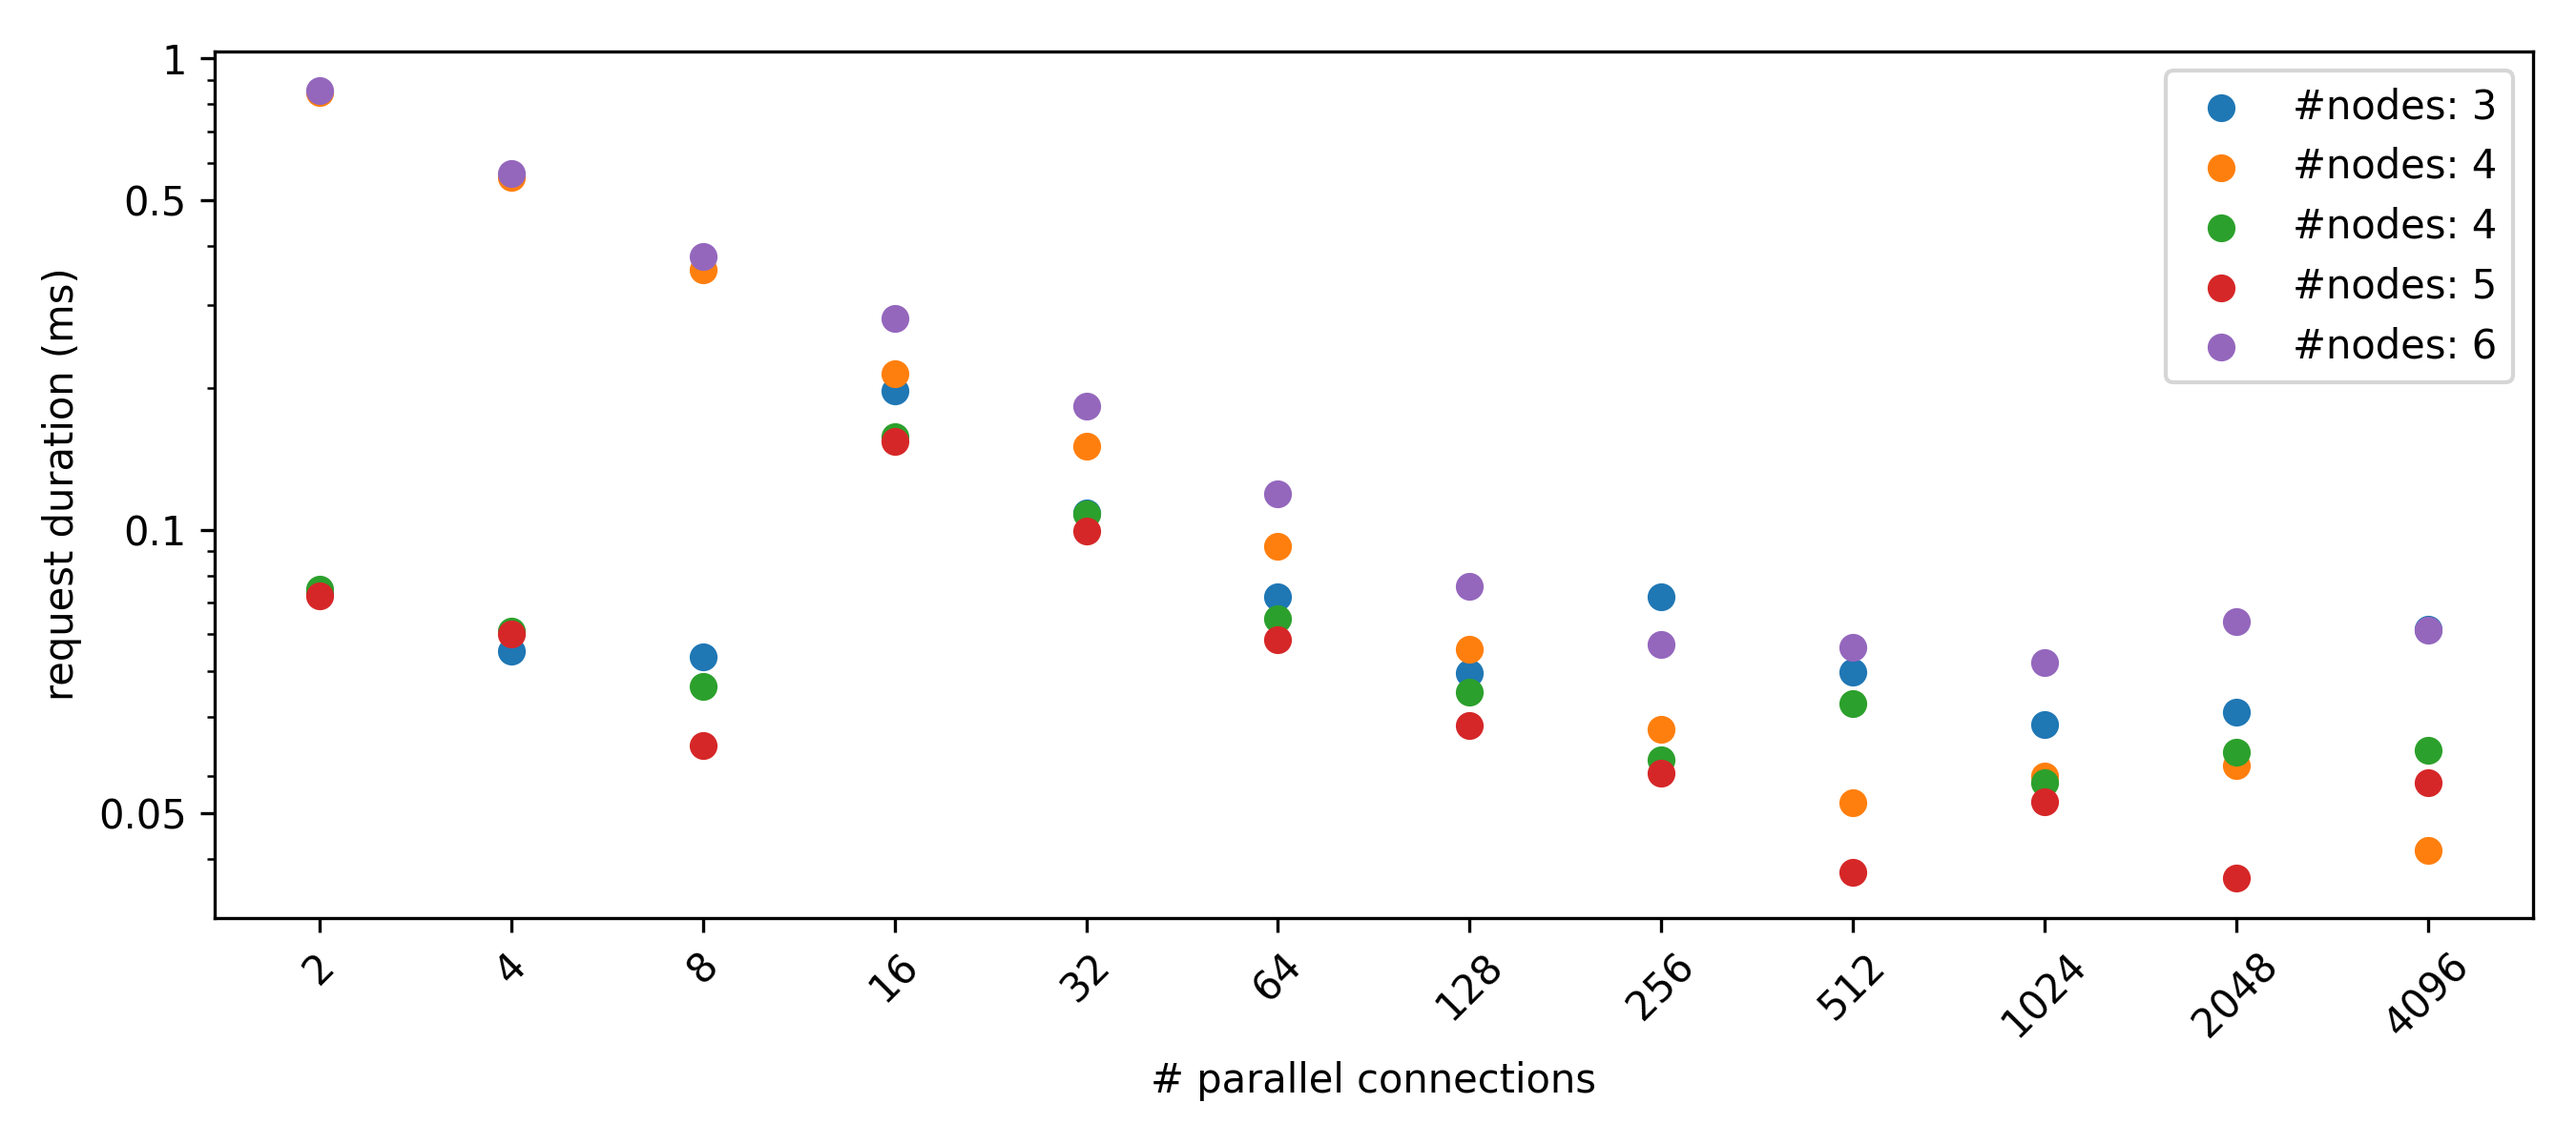
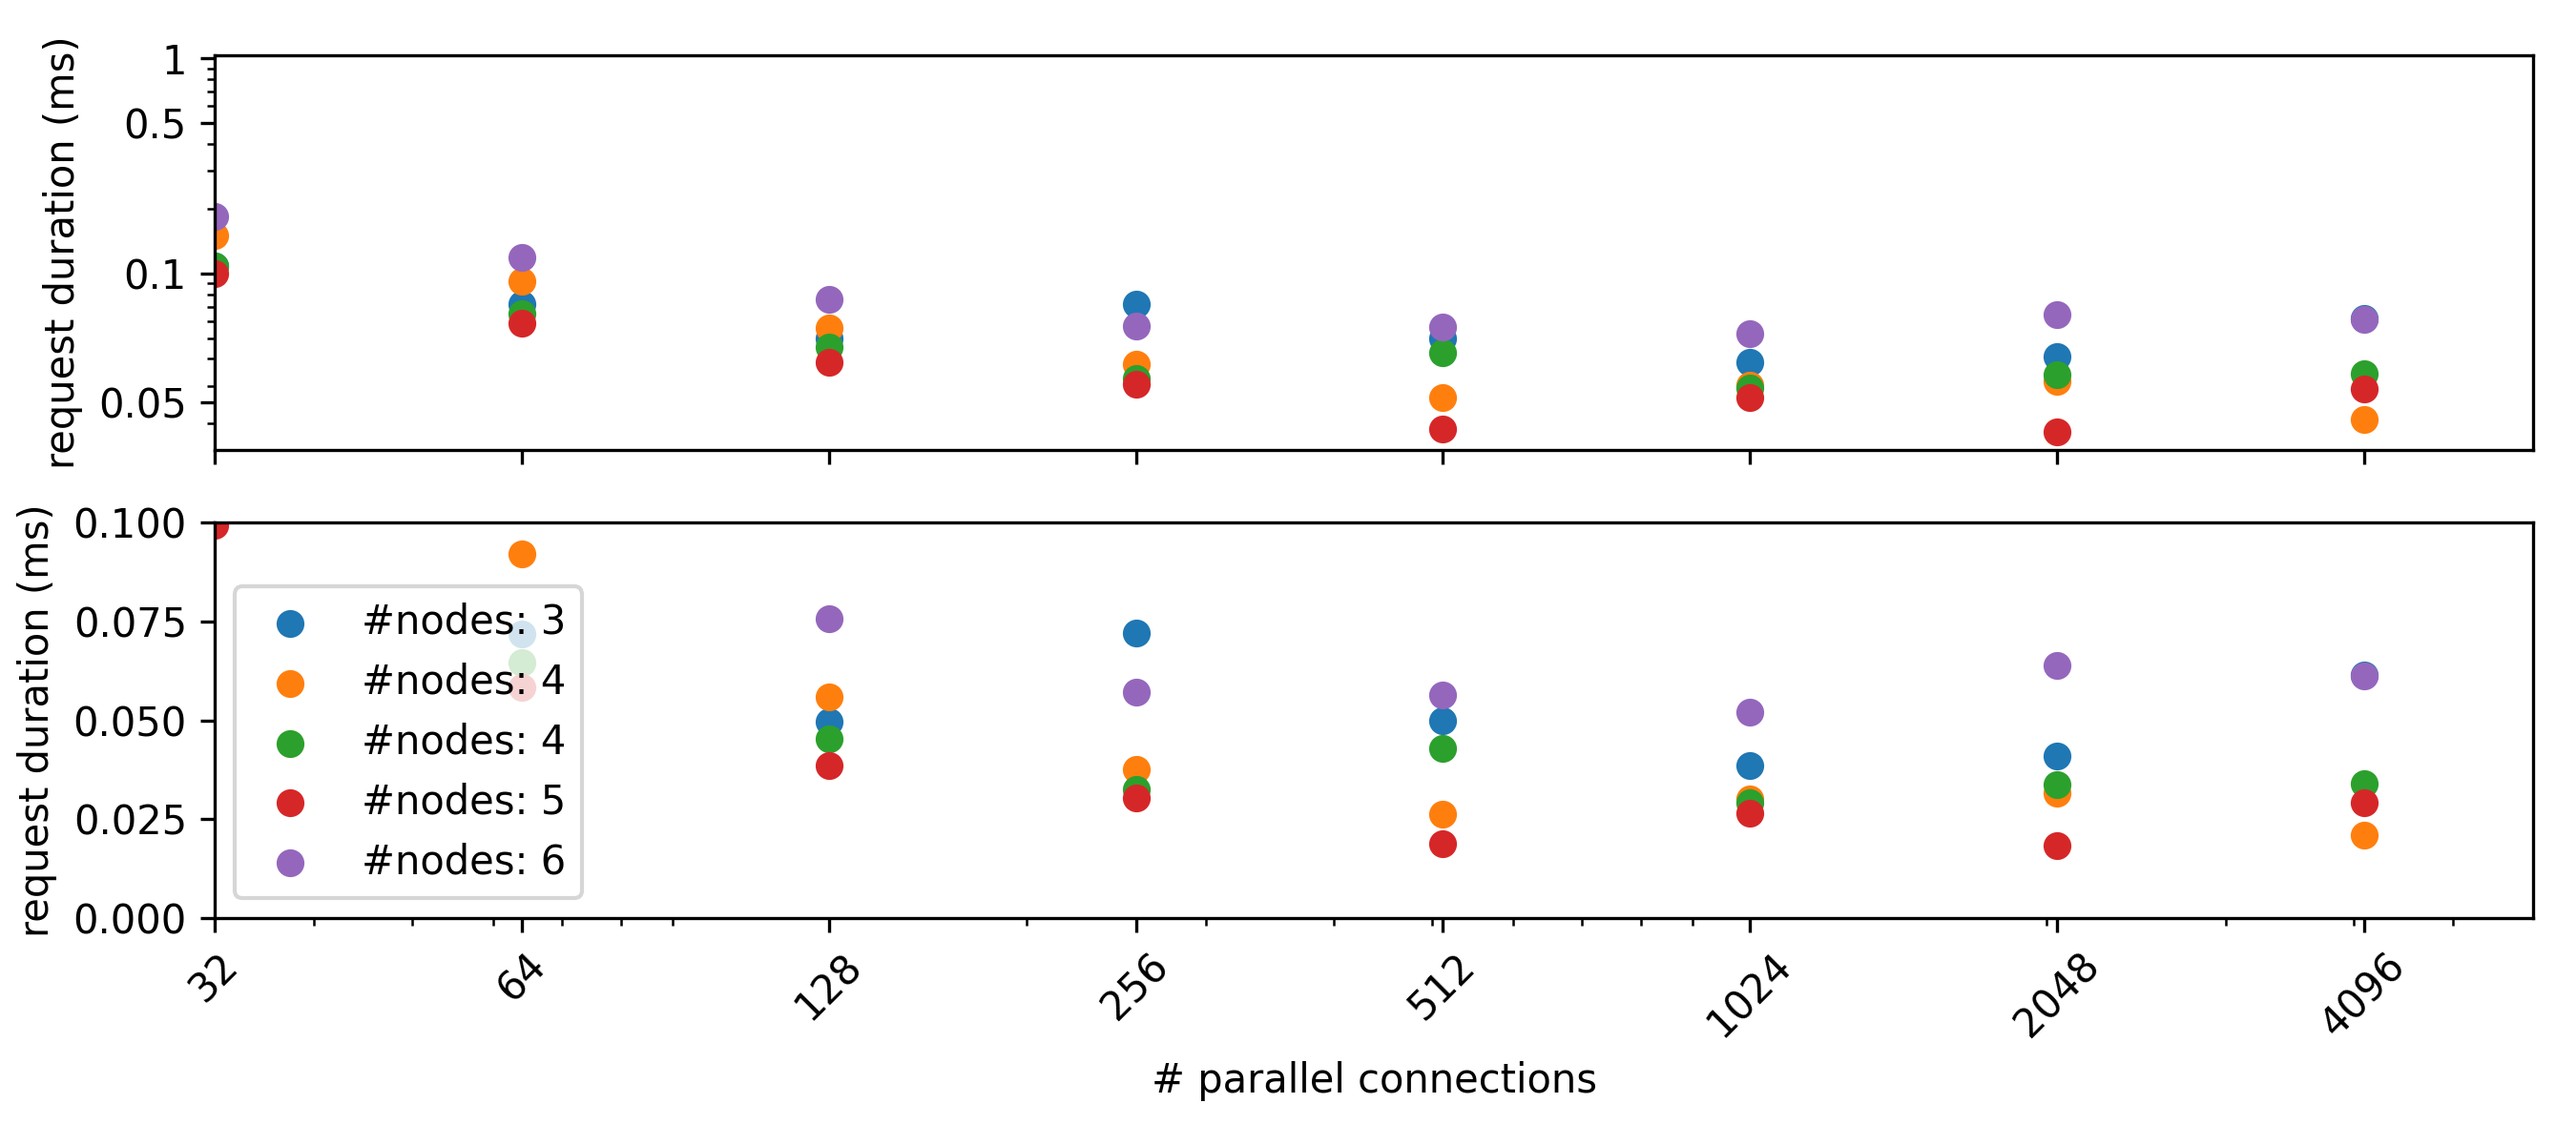
report draft done

diff --git a/report/content/conclusion.tex b/report/content/conclusion.tex
@@ -1,0 +1,21 @@
+The filesystem is consistent and stable under the lightests write and high read loads. Since I did not test other filesystems under the same workload I can not conclude weather the read performance is good. 
+
+In \cref{fig:hbt} we see a write load throws off the heartbeat timing of the writeserver resulting in readservers starting elections. The writeserver does not convert to a readserver\footnote{follower in \textit{Raft} terms} which is an implementation error. The readservers, having elected a new leader, no longer awknowledge the writeservers changes which it handles by crashing. This brings the cluster to a consistent state but errors the client connection which stopped the test. 
+There are two underlying problems here:
+
+\begin{enumerate}
+	\item A load of $5$ requests per second should not throw off heartbeat timing. An increase in heartbeat timeout did not solve the problem pointing to a problem in my consistancy model. It might have to do with the way heartbeat messages are canceld and replaced by publish change messages (see \cref{fig:mkdir} \textit{'cancel next heartbeat'}).
+	\item The writeserver should put up some \textit{backpressure} when the load becomes to high. It should stop handling new client requests instead of missing heartbeats.
+\end{enumerate}
+
+I also ran into a fundamental issue with the FS. Only a single change can be published to the readservers at the time. If multiple changes are send concurrently the readserver will eventually recieve some out of order and conclude it is outdated and should go down. 
+
+I can conclude the system, though consistant, is highly unstable during writes. The current implementation is faulty and there is a fundamental problem using raft that limits performance. It seems that read performance scales liniarly with cluster size. 
+
+\subsection{Future work}
+I think the fundamental issue can be solved with a slight change to \textit{Raft}. In \textit{Raft} a message is rejecting if the previous log index (\textit{prevLogIndex}) of the message is not found in the recievers log. I propose to introduce a pending state in which a message can be partially accepted for some duration. If the previous log index is not found a message wil not (yet) be accepted but be put into a pending state until a message with the pervious log index is accepted. The message is only awknowledged to the master if one with the missing previous log index is accepted. This should be worked out on paper then implemented.
+
+Further work should add a form of backpressure and change the task schedualling such that heartbeats will be send on time even under the highest possible load. As we use cooperative mutitasking this shoud be possible.
+To quantiy performance a I need to compare the system to existing solutions such as HDFS. For this a (minimal) data plane needs to be added and a real world workload found. Then both systems can be benchmarked on the same cluster.
+Currently a readserver that is outdated asks the writeserver for the complete directory. With a large directory and a high amount of changes this can result in an endless loop as the readserver is outdated by the time the writeserver has send the directory. This can be fixed with the log entry part of \textit{Raft} or another system for incremental updates.
+Finally there are a lot of optimisations possible. For example currently, except for publishing changes, a new connection is started for each request.

diff --git a/data/bench/main.py b/data/bench/main.py
@@ -30,41 +30,62 @@ data = {
 
 def convert_ms(data: List[float]):
     prev = 0
-    for i in range(len(data)):
-        if prev > data[i]:
+    newdata = [i for i in data]
+    for i in range(len(newdata)):
+        if prev > newdata[i]:
             break
-        prev = data[i]
-        data[i] /= 1000
+        prev = newdata[i]
+        newdata[i] /= 1000
+    return newdata
 
 
-def x_for(measurements) -> List[float]:
-    return [2**i for i in range(1, len(measurements)+1)]
+def x_for(y) -> List[float]:
+    return [2**i for i in range(1, len(y)+1)]
 
 
-fig, ax = plt.subplots(figsize=(9, 4))
-for cluster_size, data in data.items():
-    for measurements in data:
-        convert_ms(measurements)
+def plot(ax, data):
 
-        y = np.array(measurements)
-        x = x_for(y)
-        n_requests = np.array(x)*100
-        y = y / n_requests * 1000
+    for cluster_size, data in data.items():
+        for raw_data in data:
+            measurements = convert_ms(raw_data)
 
-        plt.scatter(x, y, label=f"#nodes: {cluster_size}")
+            y = np.array(measurements)
+            x = x_for(y)
+            n_requests = np.array(x)*100
+            y = y / n_requests * 1000
 
-label_pos = x_for(range(0, 12))
-label_text = [str(x) for x in label_pos]
+            ax.scatter(x, y, label=f"#nodes: {cluster_size}")
+
+
+def shared_plot_markup(ax):
+    label_pos = x_for(range(0, 12))
+    label_text = [str(x) for x in label_pos]
+
+    ax.set_xscale("log")
+    ax.set_xticks(label_pos)
+    ax.set_xticklabels(label_text)
+    ax.tick_params(axis="x", which="minor", bottom=False)
+    plt.xticks(rotation=45)
+    plt.xlabel("# parallel connections")
+    plt.ylabel("request duration (ms)")
+    plt.legend()
+    plt.tight_layout()
+
+
+fig, ax = plt.subplots(figsize=(9, 4), sharex=True)
+plot(ax, data)
+shared_plot_markup(ax)
 ax.set_yscale("log")
-ax.set_xscale("log")
-ax.set_xticks(label_pos)
-ax.set_xticklabels(label_text)
 ax.set_yticks([0.025, 0.1, 0.5, 1])
 ax.set_yticklabels(["0.05", "0.1", "0.5", "1"])
-ax.tick_params(axis="x", which="minor", bottom=False)
-plt.xticks(rotation=45)
-plt.xlabel("# parallel connections")
-plt.ylabel("request duration (ms)")
-plt.legend()
-plt.tight_layout()
-plt.savefig("../ls_request_dur.png", dpi=300)
+plt.savefig("../ls_log.png", dpi=300)
+plt.close(fig)
+
+
+fig, ax = plt.subplots(figsize=(9, 4), sharex=True)
+plot(ax, data)
+shared_plot_markup(ax)
+plt.xlim(60, 4420)
+plt.ylim(0, 0.129)
+plt.savefig("../ls_lin.png", dpi=300)
+plt.show()

diff --git a/report/content/res.tex b/report/content/res.tex
@@ -22,12 +22,20 @@ As third test I focussed on the stablility and performance of the system under t
 	\label{fig:hbt}
 \end{figure}
 
-Finally we test 'read' performance using the list directory request. I used a single client to open between 2 and 4096 simultanious connections to the cluster. Over each connection a list directory request was send 100 times. The total time between start and finish was measured for different combinations of simultaieous connections and cluster size. These times are converted to seconds per request. The results can be seen in \cref{fig:ls}. 
+Finally we test 'read' performance using the list directory request. I used a single client to open between 2 and 4096 simultanious connections to the cluster. Over each connection a list directory request was send 100 times. The total time between start and finish was measured for different combinations of simultaieous connections and cluster size. These times are converted to milliseconds per request. The results can be seen in \cref{fig:ls_log} and \cref{fig:ls_lin}. 
 It was difficult to geather the data as larger cluster sizes often ran into heartbeat issues. Except for the run with 6 nodes the data presented here is selected from succesful tests. To get this data the tests had te be ran many times.
+Note in \cref{fig:ls_log} as the number of requests increases the average request time goes down logarithmicly. In \cref{fig:ls_lin} we see that (excluding the malfunctioning 6 node run) larger cluster sizes give shorter response times.
 
 \begin{figure}[htbp]
 	\centering
-	\includegraphics{../data/ls_request_dur.png}
+	\includegraphics{../data/ls_log.png}
 	\caption{Average duration of a list directory request vs number of simultanious connections for various cluster sizes (\#nodes). The run with with 6 nodes experianced problems during its run slowing it down.}
-	\label{fig:ls}
+	\label{fig:ls_log}
+\end{figure}
+
+\begin{figure}[htbp]
+	\centering
+	\includegraphics{../data/ls_lin.png}
+	\caption{Average duration of a list directory request vs number of simultanious connections for various cluster sizes (\#nodes). The run with with 6 nodes experianced problems during its run slowing it down.}
+	\label{fig:ls_lin}
 \end{figure}
